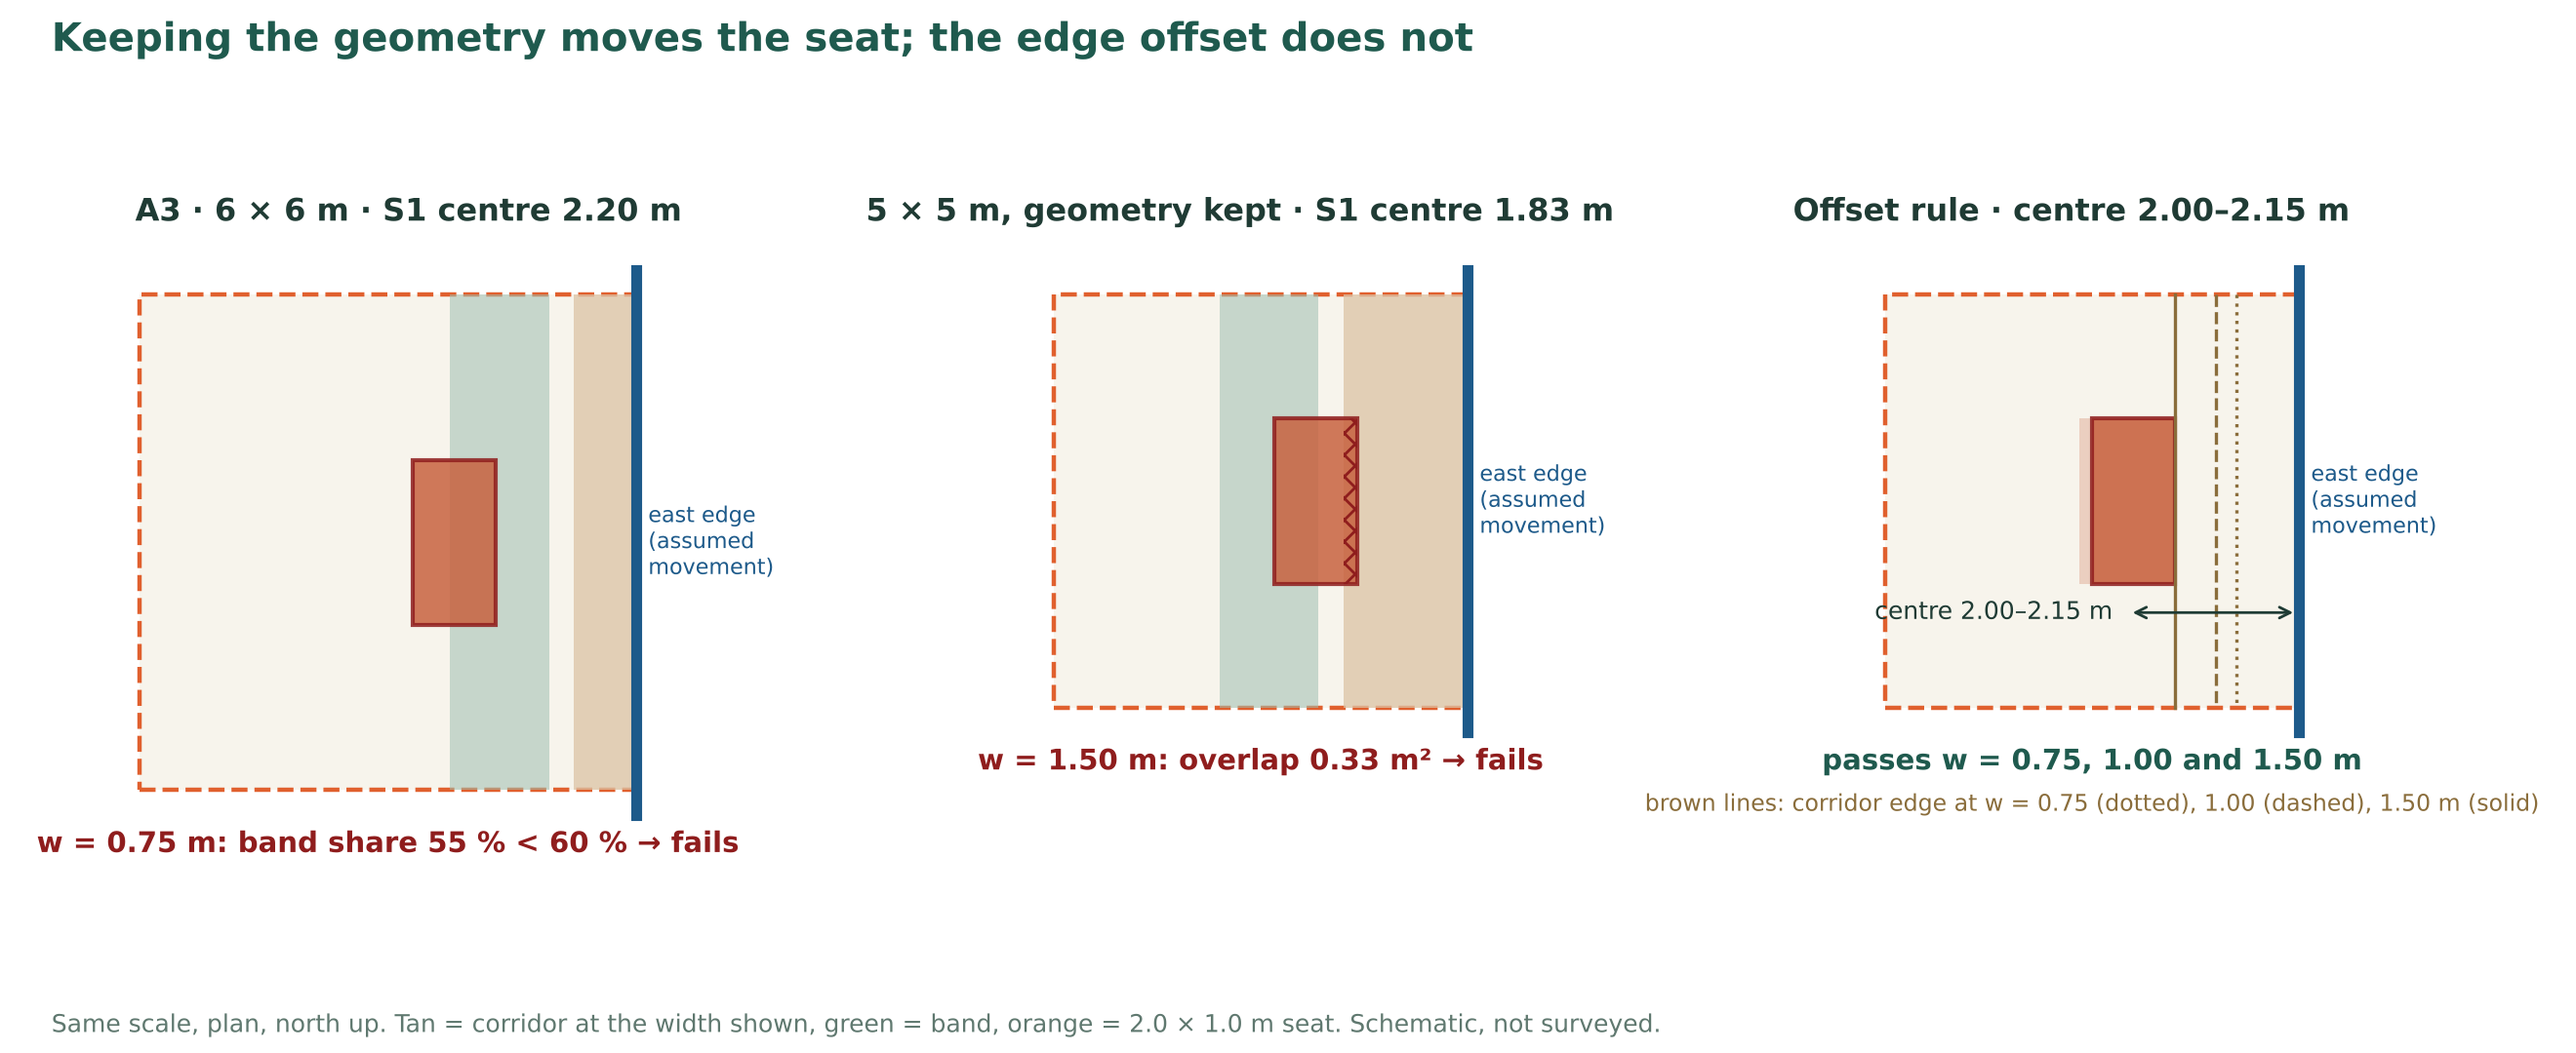
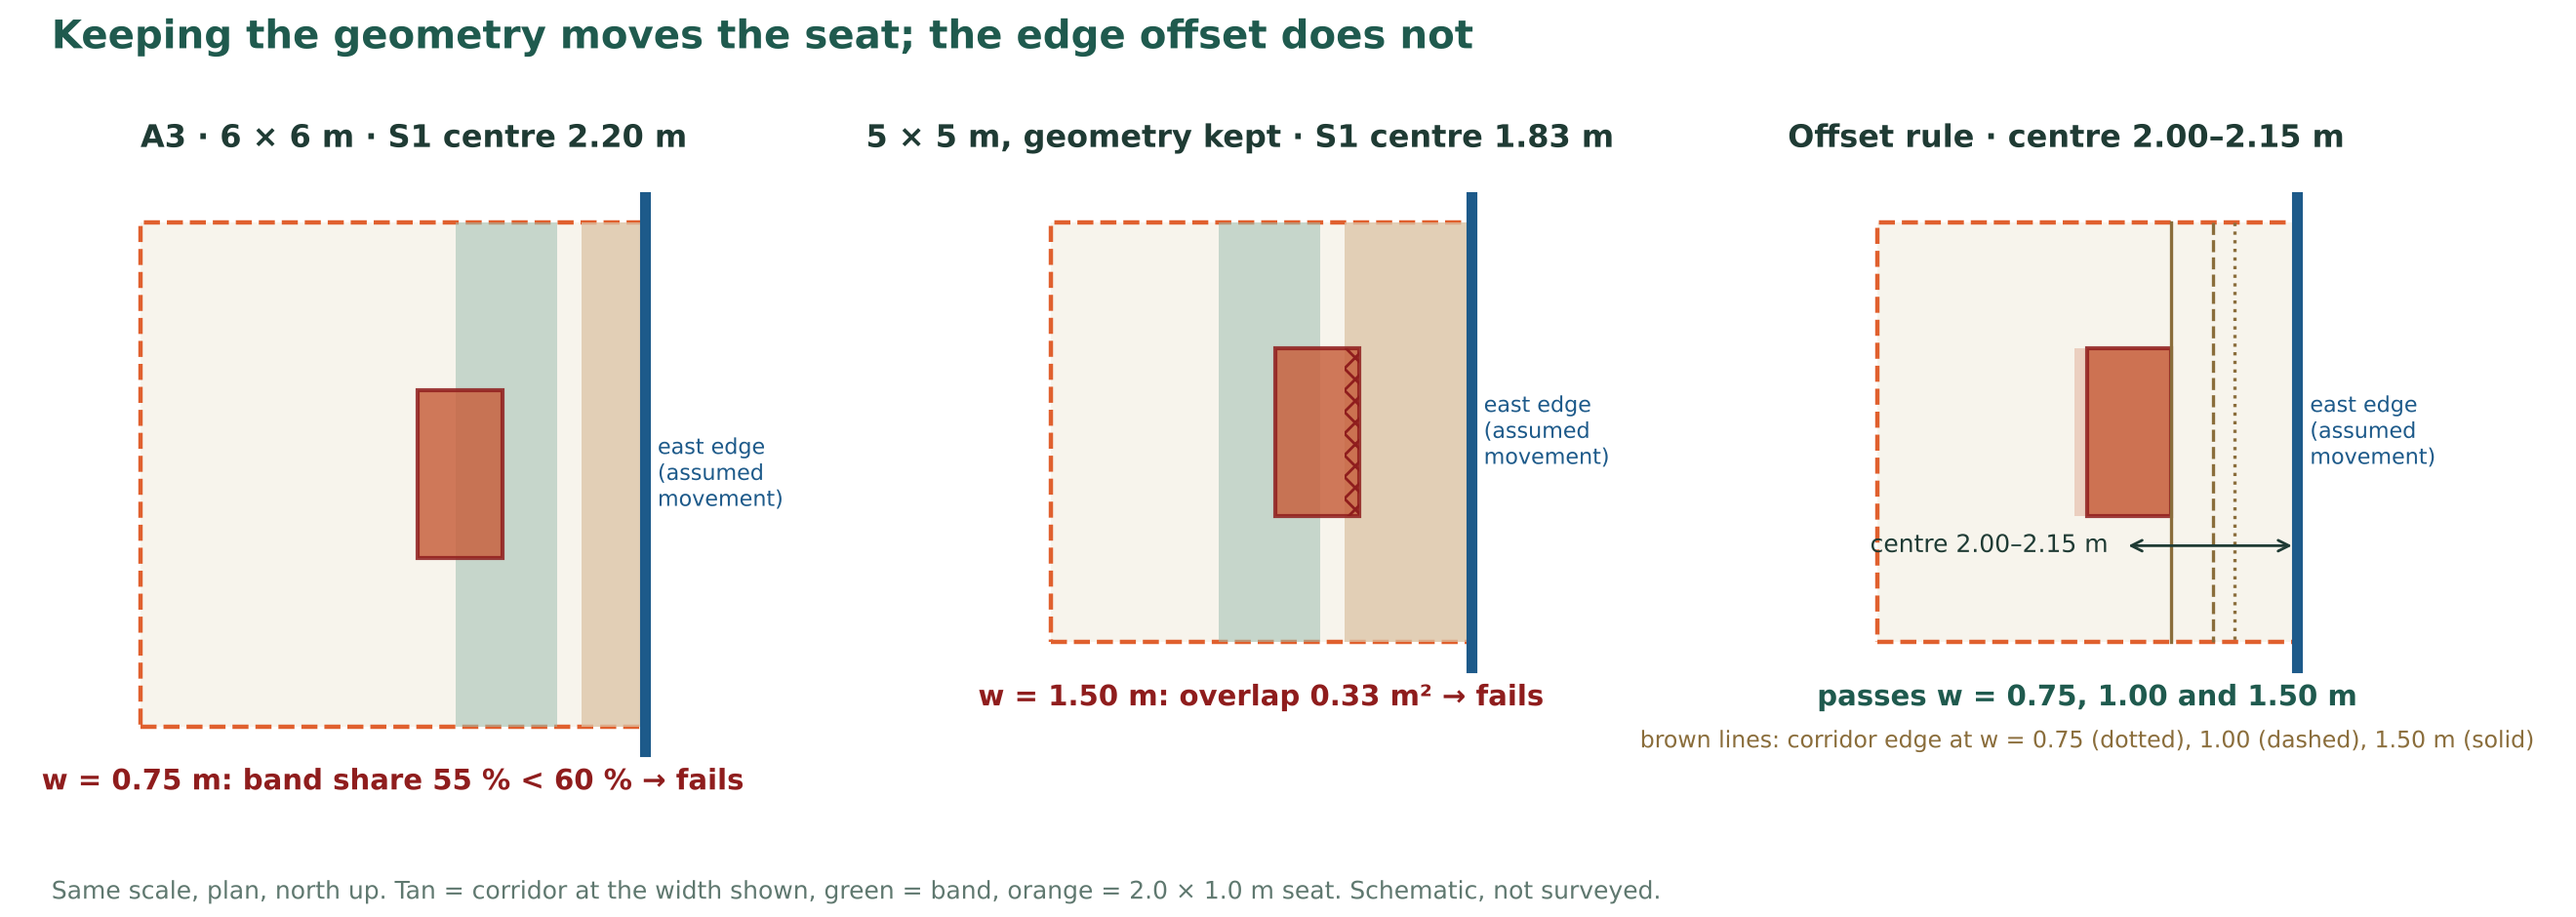
Tighten plan figure; correct A3 flip boundary; README note on peer notebooks
Claude-Session: https://claude.ai/code/session_01U8cQpQ5zYdW4F1BZ9bjHSt

diff --git a/a3src/figures.py b/a3src/figures.py
@@ -147,7 +147,7 @@ def window_plans_figure(out, cfg, variants):
         ("5 × 5 m, geometry kept · S1 centre 1.83 m", 5.0, S1["centre_from_east_m"] * 5.0 / 6.0, 1.5),
         ("Offset rule · centre 2.00–2.15 m", 5.0, None, None),
     ]
-    fig, axes = plt.subplots(1, 3, figsize=(13.2, 5.4))
+    fig, axes = plt.subplots(1, 3, figsize=(13.2, 4.7))
     for ax, (title, W, xc, w) in zip(axes, panels):
         ax.add_patch(Rectangle((-W, -W), W, W, fc="#f7f4ec", ec="#e0602e", ls="--", lw=1.6))
         ax.plot([0, 0], [0.3, -W - 0.3], color="#1d5a8a", lw=4)
@@ -180,7 +180,7 @@ def window_plans_figure(out, cfg, variants):
     fig.suptitle("Keeping the geometry moves the seat; the edge offset does not", fontsize=14.5, fontweight="bold", color=GREEN, x=0.02, ha="left")
     fig.text(0.02, 0.02, "Same scale, plan, north up. Tan = corridor at the width shown, green = band, orange = 2.0 × 1.0 m seat. Schematic, not surveyed.",
              fontsize=9, color=MUTED)
-    fig.tight_layout(rect=(0, 0.05, 1, 0.93))
+    fig.tight_layout(rect=(0, 0.04, 1, 0.95), w_pad=0.5)
     fig.savefig(out / "fig_window_plans.png", dpi=200); plt.close(fig)
 
 

diff --git a/SOURCES.md b/SOURCES.md
@@ -22,7 +22,7 @@ No map coordinates are loaded. The site is located by OpenStreetMap way 27059126
 | # | Source | Locator | What it establishes, and under what conditions | How this project differs | Claim as used here | Status |
 |---|---|---|---|---|---|---|
 | G | Gehl, J. (2011) *Life Between Buildings: Using Public Space*, trans. J. Koch. Washington DC: Island Press. ISBN 978-1-59726-827-1 | pp. 9–12 (three types of outdoor activity; sitting as an optional activity, p. 11); p. 27 (Tivoli Garden: most-used benches line the main path; benches facing activity are used); pp. 147–150 ("Standing", "Zones for staying – the edge effect"); pp. 155–159 ("Sitting": most popular sitting places at the edges of spaces, back protected, view of activity) | Staying concentrates at the edges of spaces, where people can see activity; seats with a view of the main path are used most. Observational, mainly Scandinavian and European squares and streets | Hong Kong pocket garden, subtropical climate; one seat, not a whole space | A seat at the edge of the garden, in view of the movement edge, is where staying is most likely | Needs narrowing: supports direction (edge + view of movement), not the band distances |
-| W | Whyte, W. H. (1980) *The Social Life of Small Urban Spaces*. Washington DC: The Conservation Foundation. ISBN 0-89164-057-6 | p. 19 ("What attracts people most … is other people"); pp. 20–21 (people stop and sit in the main pedestrian flow, "People also sit in the mainstream"); p. 28 ("Sitting Space": people sit most where there are places to sit) | Sitting follows the supply of sittable places; people sit and talk in or beside the main flow. Time-lapse observation of New York plazas, 1970s | Garden edge, not a plaza; no counts at Window C | Providing the seat is the precondition for staying; being next to the flow is not a deterrent | Contradicts the A3 reading that comfort requires distance from the flow. Kept the corridor as a **clearance** rule for walkers, not as a comfort claim |
+| W | Whyte, W. H. (1980) *The Social Life of Small Urban Spaces*. Washington DC: The Conservation Foundation. ISBN 0-89164-057-6 | p. 19 ("What attracts people most … is other people"); pp. 20–21 (people stop and sit in the main pedestrian flow, "People also sit in the mainstream"); p. 28 ("Sitting Space": people sit most where there are places to sit) | Sitting follows the supply of sittable places; people sit and talk in or beside the main flow. Time-lapse observation of New York plazas, 1970s | Garden edge, not a plaza; no counts at Window C | Providing the seat is the precondition for staying; being next to the flow is not a deterrent | Contradicted: the A3 reading that comfort requires distance from the flow does not hold. Kept the corridor as a **clearance** rule for walkers, not as a comfort claim |
 | M | Mehta, V. (2006) *Lively Streets: Exploring the Relationship Between Built Environment and Social Behavior*. PhD dissertation, University of Maryland. http://hdl.handle.net/1903/4165 | p. 32, notes 1–3 (definitions of stationary, lingering and social activity) | Operational definition: a stationary activity is a person standing, sitting or lying in one place outdoors for more than 15 seconds. Neighbourhood commercial streets, Boston area | Garden, not a commercial street | Used only to define what to count in the next site observation | Supported as stated (as a definition) |
 
 OpenAlex IDs: not retrieved. The OpenAlex API was not reachable from the workspace used on 26 Nov 2026, and G and W are books without DOIs. To add: search `https://api.openalex.org/works?search=<title>`, check author and year, and paste the W-ID here.

diff --git a/VERIFICATION.md b/VERIFICATION.md
@@ -29,6 +29,7 @@
 | F2 | "Skipped in the recorded run" and "runs in Colab" described the same check; a reader could not tell which run to trust | A3 report, slides 2, 3, 7, 8 | Replaced the GeoPandas check with the grid re-measurement, which needs no extra library; single entry point `run_all.py`; README states one expected RESULT line | Closed (A4) |
 | F3 | First A4 run: check "offset rule not turned, north proxy: 0 of 3 at every window size" FAILED (observed 2 of 3 at 4.0 m, 1 of 3 at 4.5–5.5 m) | `a3src/a4_window_size.py` | The expectation was reasoned from the 6 m window only. In smaller windows the seat sits nearer the north edge and partly enters the north band. Recalculated two cases by hand (W = 6.0 m: 0 of 3; W = 5.0 m: 1 of 3) and replaced the check; the code was not changed | Closed; the Object Card limit row shows 0–2 of 3 |
 | F4 | Key-figure title ran off the page | `a3src/figures.py` | Shortened | Closed |
+| F5 | The A3 report said S1 fails "if c₂ ≤ 1.30 m or c₁ ≥ 0.90 m" (w = 1.00 m). Rechecked: at exactly c₂ = 1.30 m or c₁ = 0.90 m, S1 scores 60 % and passes | A3 report, slide 6 | Corrected to "c₂ < 1.30 m or c₁ > 0.90 m" in the A4 Research Brief | Closed |
 
 ## What these checks do not establish
 

diff --git a/README.md b/README.md
@@ -60,7 +60,7 @@ Both options run the same file (`run_all.py`) and the same 39 checks. No step is
 | `AI_PROMPT_LOG.md` | What AI was asked to do and how each output was checked |
 | `requirements.txt` | numpy, matplotlib |
 
-`Window_C_Peer_Run.ipynb` and `Window_C_Peer_Run (1).ipynb` are the author's separate peer-review notebooks; they are not part of this capsule's run or checks.
+The GitHub repository also holds `Window_C_Peer_Run.ipynb` and `Window_C_Peer_Run (1).ipynb`, the author's separate peer-review notebooks. They are not part of this capsule's run or checks and are left out of the ZIP.
 
 ## Environment of the recorded run
 
